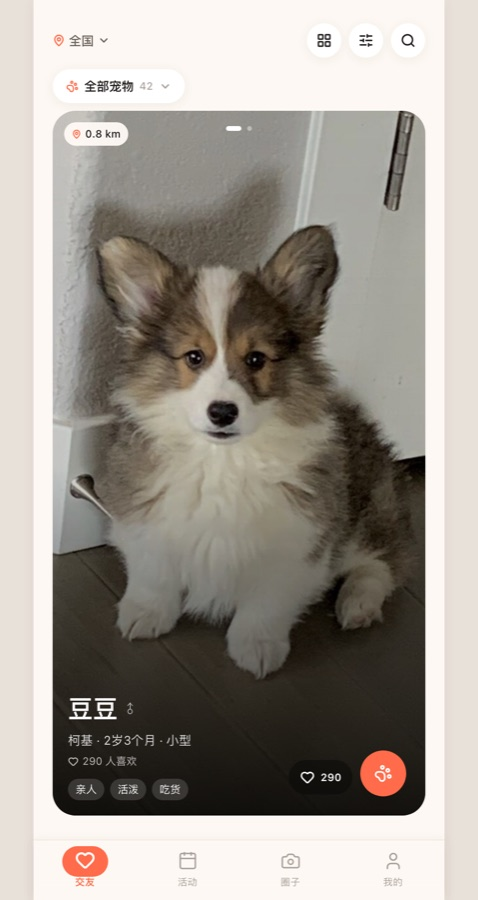
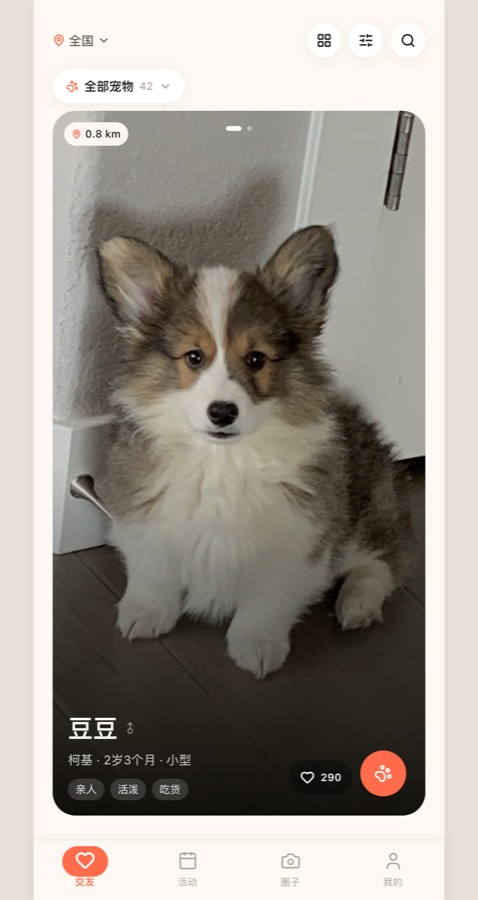
fix: 去掉卡片上重复的点赞数
加爱心按钮后，上方那行「290 人喜欢」和按钮里的 290 重复了。
现在只有按钮显示数字，该行改为只放推荐原因（没有就不显示）。
另外把距离的「不限」统一成白底灰字+勾，和其他分组一致。

Changed region(s): [[0.1464, 0.7778, 0.3222, 0.8711], [0.3515, 0.8089, 0.41, 0.8711]]

diff --git a/src/app/page.tsx b/src/app/page.tsx
@@ -364,15 +364,9 @@ function PetSlide({
             <p className="mt-1 text-body text-white/85">
               {pet.breed} · {pet.ageText} · {SIZE_LABEL[pet.size]}
             </p>
-            <p className="mt-1 flex items-center gap-1 text-cap text-white/70">
-              <Heart
-                size={11}
-                strokeWidth={2.4}
-                className={liked ? "heart-pop fill-on-brand text-ink" : ""}
-              />
-              {likes} 人喜欢
-              {reason && <span className="text-white/45">· {reason}</span>}
-            </p>
+            {reason && (
+              <p className="mt-1 text-cap leading-snug text-white/55">{reason}</p>
+            )}
             <div className="mt-2.5 flex flex-wrap gap-1.5 pr-16">
               {pet.personality.slice(0, 3).map((t) => (
                 <span
